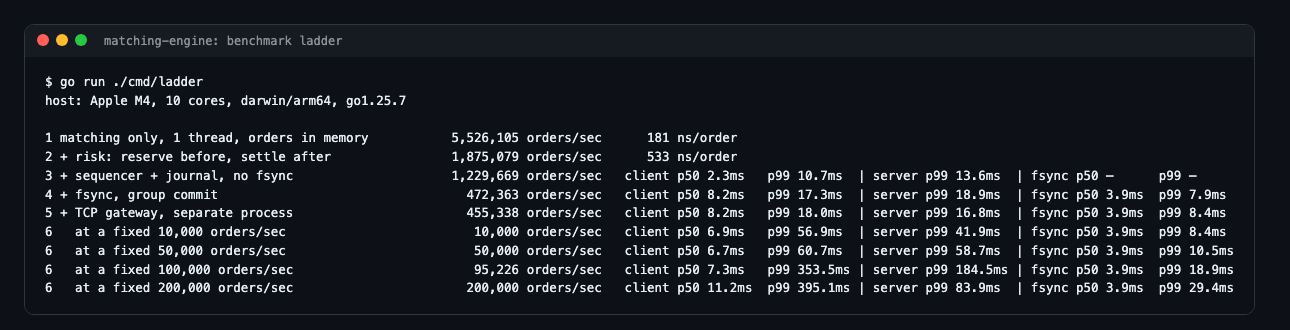
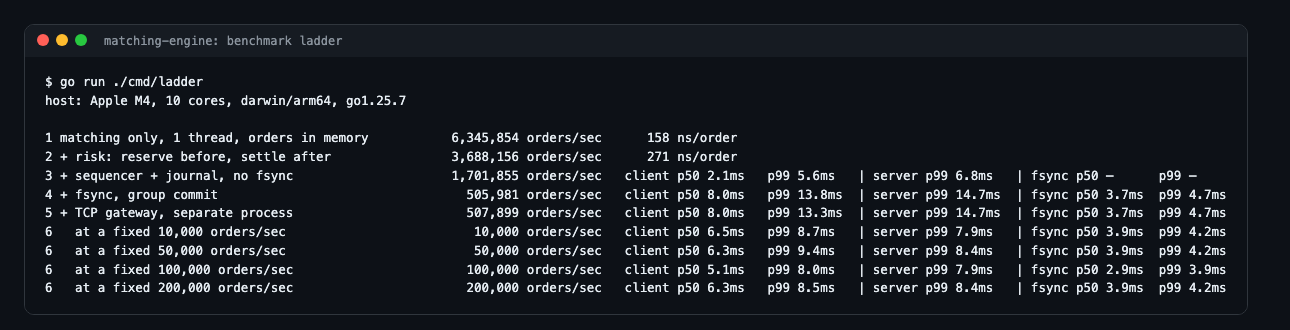
Benchmark: three runs on a quiet machine, p99 8-14 ms at fixed rates

diff --git a/README.md b/README.md
@@ -7,14 +7,14 @@ its own, so each number says exactly what it includes.
 
 | Measured on an Apple M4 laptop | |
 |---|---|
-| Matching core, one thread, orders in memory | 2.0-5.5M orders/sec |
-| End to end: TCP, risk, matching, fsync before every ack | 410-580K orders/sec |
-| Latency at a steady 50K orders/sec | p50 5.5-7 ms, bounded below by one ~4 ms fsync |
+| Matching core, one thread, orders in memory | 5.2-6.3M orders/sec |
+| End to end: TCP, risk, matching, fsync before every ack | 501-513K orders/sec |
+| Latency at a steady 10K-200K orders/sec | p50 5-7 ms, p99 8-14 ms |
 | Recovery after kill -9 | snapshot + journal tail, state hash identical |
 
-Ranges span runs on a quiet and a busy machine; one run under heavy
-background load measured 276K end to end. Every run is in
-[docs/ladder-runs.txt](docs/ladder-runs.txt). Go, standard library only.
+Three runs on a quiet laptop (Docker and other apps closed). Earlier runs
+on a busy machine measured less and had p99 spikes of 50-800 ms; every run,
+busy and quiet, is in [docs/ladder-runs.txt](docs/ladder-runs.txt). Go, standard library only.
 
 **Live demo:** https://matching-engine-ydj6.onrender.com (free tier, the
 first load after idle takes ~50 s). Opening the page runs a live benchmark on
@@ -77,20 +77,19 @@ their latency is mostly queueing: 4,096 in flight / throughput. Rung 6 sends
 on a clock and measures from the scheduled send time, so a stalled server
 can't hide by slowing the client (coordinated omission). The table also
 shows latency measured inside the server and the fsync time itself: on
-macOS `fsync` is a full flush (`F_FULLFSYNC`), typically ~3-4 ms with
-occasional 30-130 ms stalls, and those stalls are where the p99 tail comes
-from.
+macOS `fsync` is a full flush (`F_FULLFSYNC`), typically ~3-4 ms. The p50
+sits near one and a half flushes, because an order waits for the flush in
+progress and then its own.
 
 ![benchmark ladder](docs/ladder.png)
 
-One run, with other workloads active on the laptop; all three runs are in
-[docs/ladder-runs.txt](docs/ladder-runs.txt). Medians are stable across
-runs: end to end 410-460K orders/sec (up to 580K on a quiet machine), p50
-6-8 ms at fixed rates. The p99 is not stable on this laptop: it follows the
-fsync tail, and macOS flushes (`F_FULLFSYNC`) occasionally stall for tens of
-milliseconds. Every order queued behind a stalled flush waits for it, which
-is why production venues replicate the journal to a second machine's memory
-instead of putting a local fsync on the critical path.
+Run 1 of three on a quiet laptop; all runs are in
+[docs/ladder-runs.txt](docs/ladder-runs.txt). Across the three: end to end
+501-513K orders/sec, p50 5-7 ms and p99 8-14 ms at every fixed rate. On a
+busy machine (Docker and other apps running) the same p99 reached
+50-800 ms: every order queued behind a slow flush waits for it. That is why
+production venues replicate the journal to a second machine's memory instead
+of putting a local fsync on the critical path.
 
 ### Crash test
 
